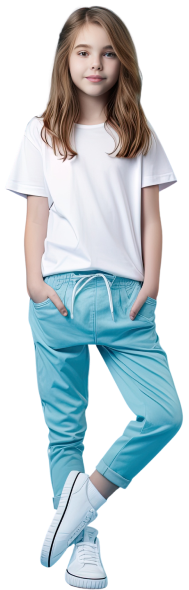
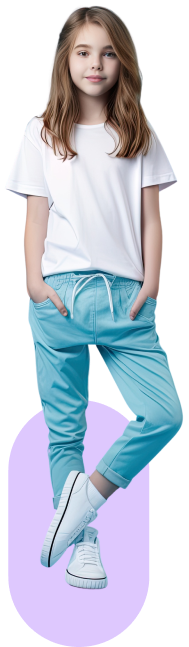
desctop hero section updated / images and buttons

diff --git a/types.ts b/types.ts
@@ -1,5 +1,30 @@
 export type TypeLanguages = 'fi' | 'ru';
-export type TypeUIicons =
+
+export type TypeUIIcons =
+  "email"
+  | "phone"
+  | "facebook"
+  | "instagram"
+  | "whatsapp"
+  | "location"
+  | "send"
+  | "circle_add"
+  | "circle_subtract"
+  | "circle_cancel"
+  | "circle_help"
+  | "check"
+  | "arrow"
+  | "arrow_outward"
+  | "arrow_forward"
+  | "arrow_drop_down"
+  | "info_i"
+  | "download"
+  | "add"
+  | "close"
+  | "close_small"
+  | "menu";
+
+export type TypeUIActivityIcons =
   "clubs"
   | "camps"
   | "masters"
@@ -27,8 +52,8 @@ interface LangRouteName {
 
 export interface ISubMenu {
   iconBorder: "cookie" | "list";
-  icon: TypeUIicons | "pen";
-  slug: TypeUIicons | TypeBlanks;
+  icon: TypeUIActivityIcons | "pen";
+  slug: TypeUIActivityIcons | TypeBlanks;
   hrefName: LangRouteName;
   hrefDesc: LangRouteName;
 }

diff --git a/src/styles/global.css b/src/styles/global.css
@@ -8,8 +8,9 @@
 }
 
 @media (prefers-reduced-motion: no-preference) {
-  html {
+  :has(:target) {
     scroll-behavior: smooth !important;
+    scroll-padding-top: 2rem;
   }
 }
 
@@ -17,10 +18,11 @@ html {
   background-color: #f9f7f8;
   scrollbar-gutter: stable;
   overflow-x: hidden;
+  hanging-punctuation: first last;
 }
 
 body {
-  block-size: 100svh;
+  max-block-size: 100svh;
   /* max-inline-size: 1920px; */
   /* margin-inline: auto; */
   font-family: 'Comfortaa', sans-serif;
@@ -97,6 +99,10 @@ main {
 
 h1, h2, h3,h4, h5, h6 {
   color: var(--black);
+  text-wrap: balance;
+}
+p {
+  text-wrap: pretty;
 }
 
 .bg-violet {
